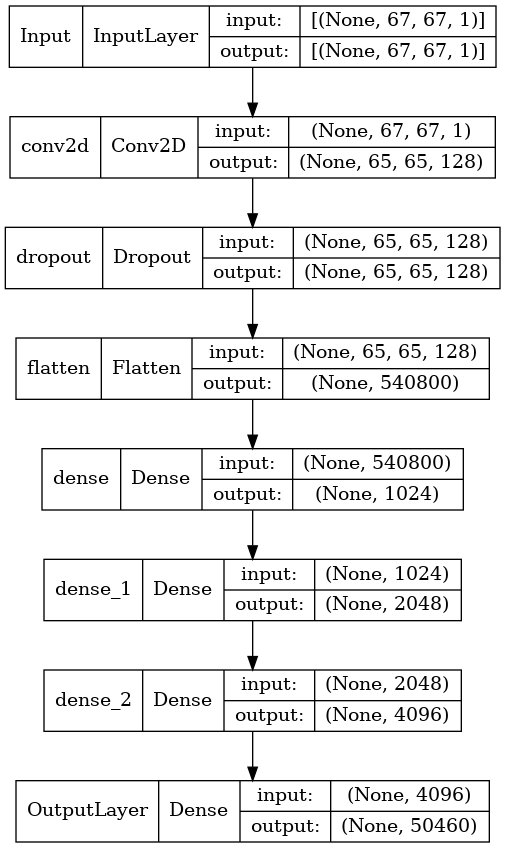
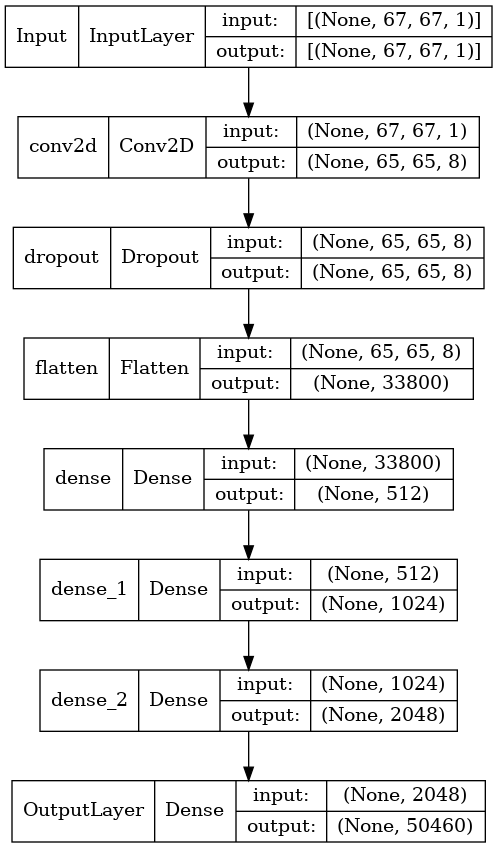
cnn

diff --git a/net.py b/net.py
@@ -6,6 +6,7 @@ from tensorflow.keras.models import load_model
 from tensorflow.keras.layers import (Dense, Dropout, Conv2D, Flatten, MaxPooling2D) 
 from copy import deepcopy
 from sklearn.model_selection import train_test_split
+import datetime
 
 import pickle
 import numpy as np
@@ -57,7 +58,7 @@ class NN:
 
     @abstractmethod
     def fit(self, learning_rate=0.01, 
-        validation_split=0.2, epochs=50, metrics=None, 
+        validation_split=0.2, epochs=50, 
         false_positive_penalty=2, delta=1., batch_size=100, 
         loss=None, patience=5
     ):
@@ -77,8 +78,6 @@ class NN:
             epochs : int
                 Number of epochs to train. In one epoch all training samples 
                 are used once for training.
-            metrics : list/str
-                The metrics to be used for performance monitoring during training.
             false_positive_penalty : float
                 Defines weighting of false-positive predictions. Increase for conservative 
                 inverse solutions, decrease for liberal prediction.
@@ -91,8 +90,8 @@ class NN:
                 Number of epochs with no improvement after which trainning will be stopped
             Return
             ------
-            history : keras.callbacks.History
-                Method returns the history.
+            history, tensorboard dir : keras.callbacks.History, string
+                Method returns the history and the log dir for the tensorboard.
 
         '''
         pass
@@ -228,7 +227,7 @@ class EEGMLP(NN):
                 tf.keras.utils.plot_model(self.model, to_file=img, show_shapes=True)
 
     def fit(self, learning_rate=0.01, 
-        validation_split=0.2, epochs=50, metrics=None, 
+        validation_split=0.2, epochs=50, 
         false_positive_penalty=2, delta=1., batch_size=100, 
         loss=None, patience=5
     ):
@@ -238,6 +237,9 @@ class EEGMLP(NN):
         elif len(self.sim.source_data.shape) != 2 :
             raise AttributeError("Sources data must be 2D (n_dipoles x n_samples")
 
+        tensorboard_dir = 'logs/MLP-Model-{}'.format(datetime.datetime.now().strftime('%d/%m/%Y-%H:%M:%S'))
+        tensorboard_callback = tf.keras.callbacks.TensorBoard(log_dir=tensorboard_dir)
+        
         # Input data
         x = self.sim.eeg_data.T        
 
@@ -246,7 +248,7 @@ class EEGMLP(NN):
 
         # early stoping
         es = tf.keras.callbacks.EarlyStopping(monitor='val_loss', \
-            mode='min', patience=patience, restore_best_weights=True)
+            mode='min', patience=patience, restore_best_weights=True, verbose=1)
 
         optimizer = tf.keras.optimizers.Adam(learning_rate=learning_rate)
 
@@ -254,9 +256,11 @@ class EEGMLP(NN):
         if loss == None:
             loss = self.default_loss(weight=false_positive_penalty, delta=delta)
         
-        if metrics is None:
-            metrics = [self.default_loss(weight=false_positive_penalty, delta=delta)]
-        
+        metrics = [tf.keras.metrics.MeanAbsoluteError(name="MAE"), 
+            tf.keras.metrics.RootMeanSquaredError(name="RMSE"),
+            tf.keras.metrics.MeanAbsolutePercentageError(name="MAPE")            
+        ]
+
         if not self.compiled:
             self.model.compile(optimizer, loss, metrics=metrics)
             self.compiled = True
@@ -267,10 +271,10 @@ class EEGMLP(NN):
 
         history = self.model.fit(data_train, labels_train, 
                 epochs=epochs, batch_size=batch_size, shuffle=False, 
-                validation_data=(data_val, labels_val), callbacks=[es])
+                validation_data=(data_val, labels_val), callbacks=[es, tensorboard_callback])
         self.trained = True
         
-        return history
+        return history, tensorboard_dir
 
     
     def predict(self, eeg):
@@ -298,7 +302,7 @@ class EEG_CNN(NN):
         elif eeg_topographies.shape[0] != self.n_samples :
             raise AttributeError('Incompatible sim and topographies.')
         
-        self.eeg_topographies = eeg_topographies
+        self.eeg_topographies = deepcopy(eeg_topographies)
 
 
     def build_model(self):
@@ -314,12 +318,12 @@ class EEG_CNN(NN):
 
             # add input layer
             self.model.add(keras.Input(shape=(self.eeg_topographies.shape[1], self.eeg_topographies.shape[2],1), name='Input'))
-            self.model.add(Conv2D(128, kernel_size=(3, 3), activation='relu'))
+            self.model.add(Conv2D(8, kernel_size=(3, 3), activation='relu'))
             self.model.add(Dropout(0.25))
             self.model.add(Flatten())
+            self.model.add(Dense(512, activation='relu'))
             self.model.add(Dense(1024, activation='relu'))
             self.model.add(Dense(2048, activation='relu'))
-            self.model.add(Dense(4096, activation='relu'))
             # Add output layer
             self.model.add(Dense(self.n_dipoles, activation='linear', name='OutputLayer'))
 
@@ -329,7 +333,7 @@ class EEG_CNN(NN):
                 tf.keras.utils.plot_model(self.model, to_file=img, show_shapes=True)
     
     def fit(self, learning_rate=0.01, 
-        validation_split=0.2, epochs=50, metrics=None, 
+        validation_split=0.2, epochs=50,
         false_positive_penalty=2, delta=1., batch_size=100, 
         loss=None, patience=5
     ):
@@ -339,6 +343,9 @@ class EEG_CNN(NN):
         elif len(self.sim.source_data.shape) != 2 :
             raise AttributeError("Sources data must be 2D (n_dipoles x n_samples")
 
+        tensorboard_dir = 'logs/CNN-Model-{}'.format(datetime.datetime.now().strftime('%d/%m/%Y-%H:%M:%S'))
+        tensorboard_callback = tf.keras.callbacks.TensorBoard(log_dir=tensorboard_dir)
+
         # Input data
         x = self.eeg_topographies       
 
@@ -347,28 +354,26 @@ class EEG_CNN(NN):
 
         # early stoping
         es = tf.keras.callbacks.EarlyStopping(monitor='val_loss', \
-            mode='min', patience=patience, restore_best_weights=True)
+            mode='min', patience=patience, restore_best_weights=True,verbose=1)
 
         optimizer = tf.keras.optimizers.Adam(learning_rate=learning_rate)
 
 
         if loss == None:
             loss = self.default_loss(weight=false_positive_penalty, delta=delta)
-        
-        if metrics is None:
-            metrics = [self.default_loss(weight=false_positive_penalty, delta=delta)]
-        
+
+        metrics = [tf.keras.metrics.MeanAbsoluteError(name="MAE"), 
+            tf.keras.metrics.RootMeanSquaredError(name="RMSE"),
+            tf.keras.metrics.MeanAbsolutePercentageError(name="MAPE")            
+        ]
+
         if not self.compiled:
-            print('hi')
             self.model.compile(optimizer, loss, metrics=metrics)
             self.compiled = True
 
-        data_train, data_val, labels_train, labels_val = train_test_split(x, y, test_size=validation_split, shuffle=True)
-
-        del x, y
-        history = self.model.fit(data_train, labels_train, 
-                epochs=epochs, batch_size=batch_size, shuffle=False, 
-                validation_data=(data_val, labels_val), callbacks=[es])
+        history = self.model.fit(x, y, 
+                epochs=epochs, batch_size=batch_size, shuffle=True, 
+                validation_split=validation_split, callbacks=[es, tensorboard_callback])
         self.trained = True
         
-        return history
+        return history, tensorboard_dir
